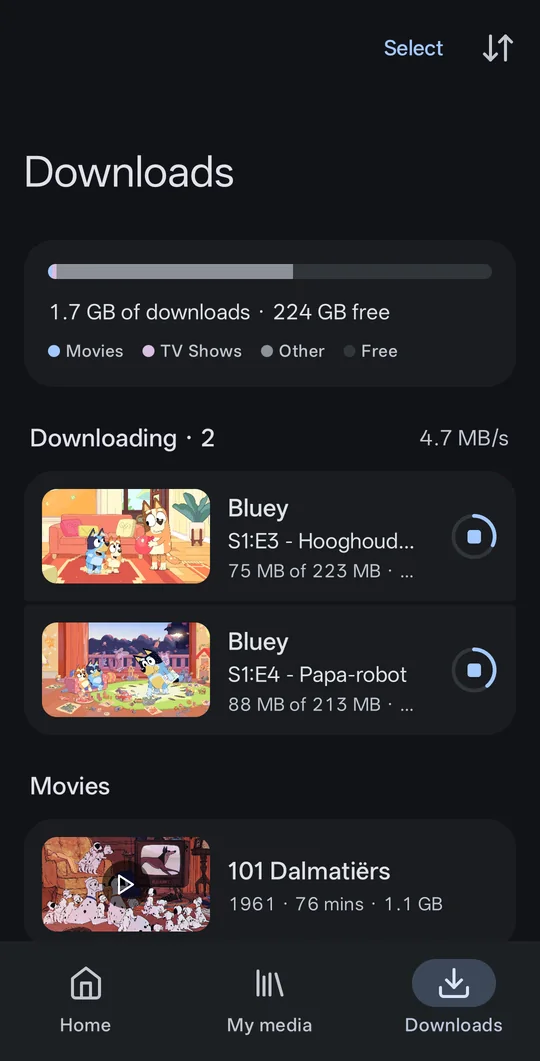
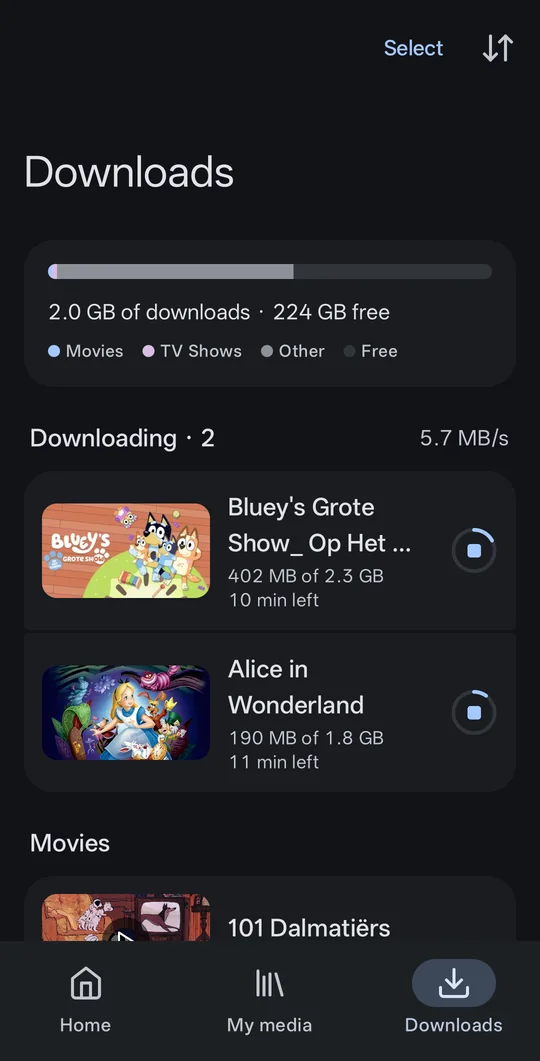
docs: add show page and subtitle screenshots
Retake the Downloads shot with the status on two lines, so it matches
the row fix that's on its way to main.

diff --git a/README.md b/README.md
@@ -23,15 +23,18 @@ prefer rock-solid stability, stick with upstream — and know that the good stuf
 
 ## A look at CE
 
-<p>
+<p align="center">
   <img src="images/screenshots/downloads.webp" width="240" alt="Downloads screen with a storage bar, two active downloads with progress rings, and a downloaded movie">
   <img src="images/screenshots/season.webp" width="240" alt="Season episode list showing downloaded, downloading and not yet downloaded episodes">
   <img src="images/screenshots/download-quality.webp" width="240" alt="Download quality dialog listing original quality and bitrates from 4K down">
+  <img src="images/screenshots/downloaded-show.webp" width="240" alt="Downloaded show page listing episodes by season with their sizes">
+  <img src="images/screenshots/subtitle-style.webp" width="240" alt="Subtitle style screen with a live preview of yellow subtitles">
   <img src="images/screenshots/player-quality.webp" width="728" alt="Video quality dialog open over the player">
 </p>
 
 The Downloads screen with its storage breakdown, download progress in the season list, a quality
-choice for every download, and video quality during playback.
+choice for every download, a page for each downloaded show, subtitle styling with a live preview,
+and video quality during playback.
 
 <sub>All artwork shown belongs to its respective owners.</sub>
 
